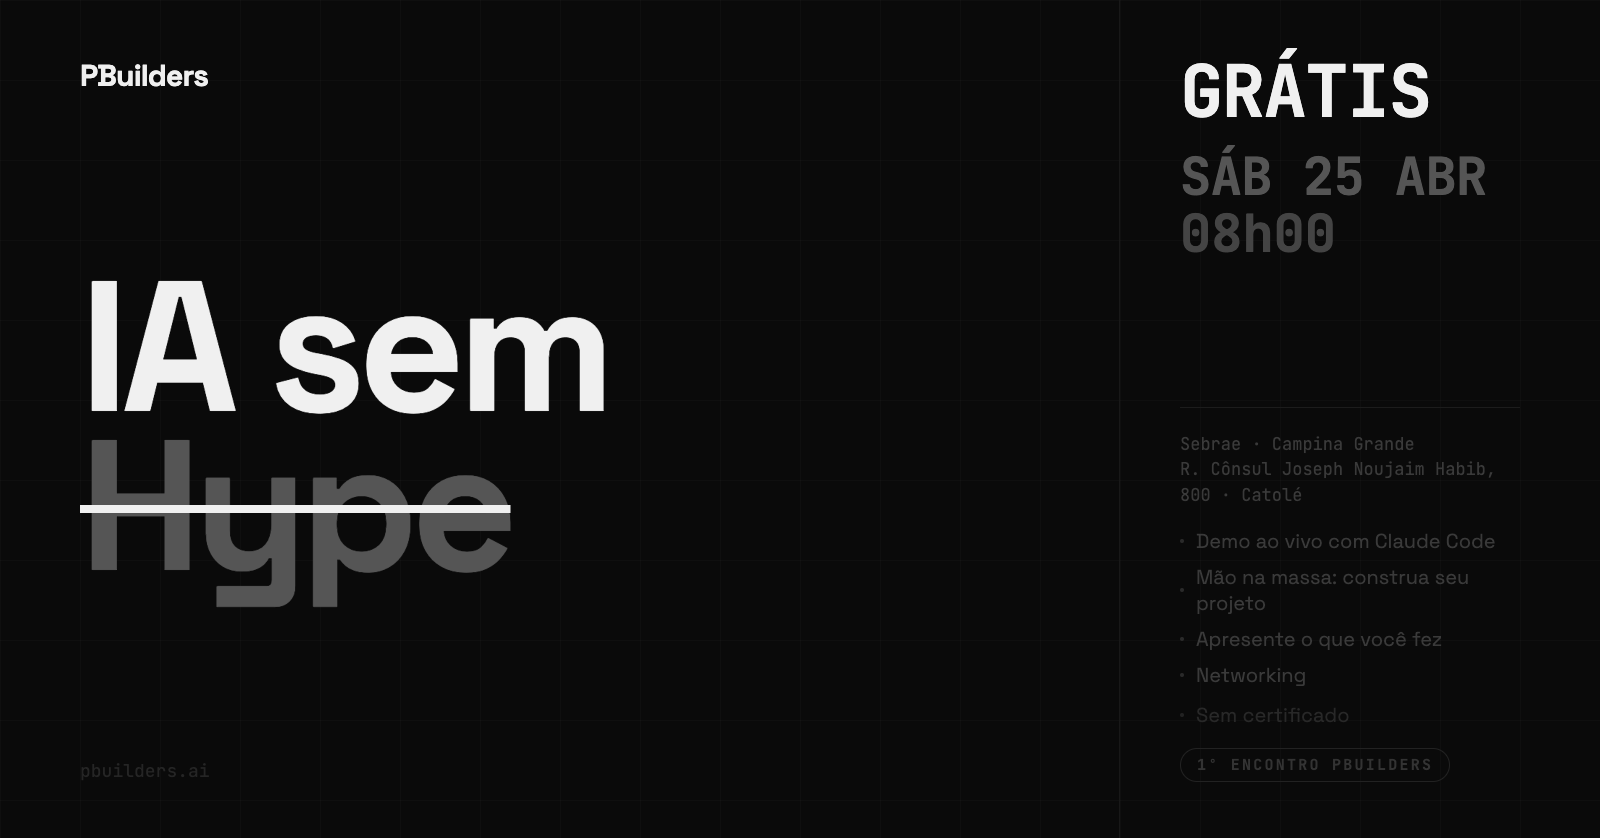
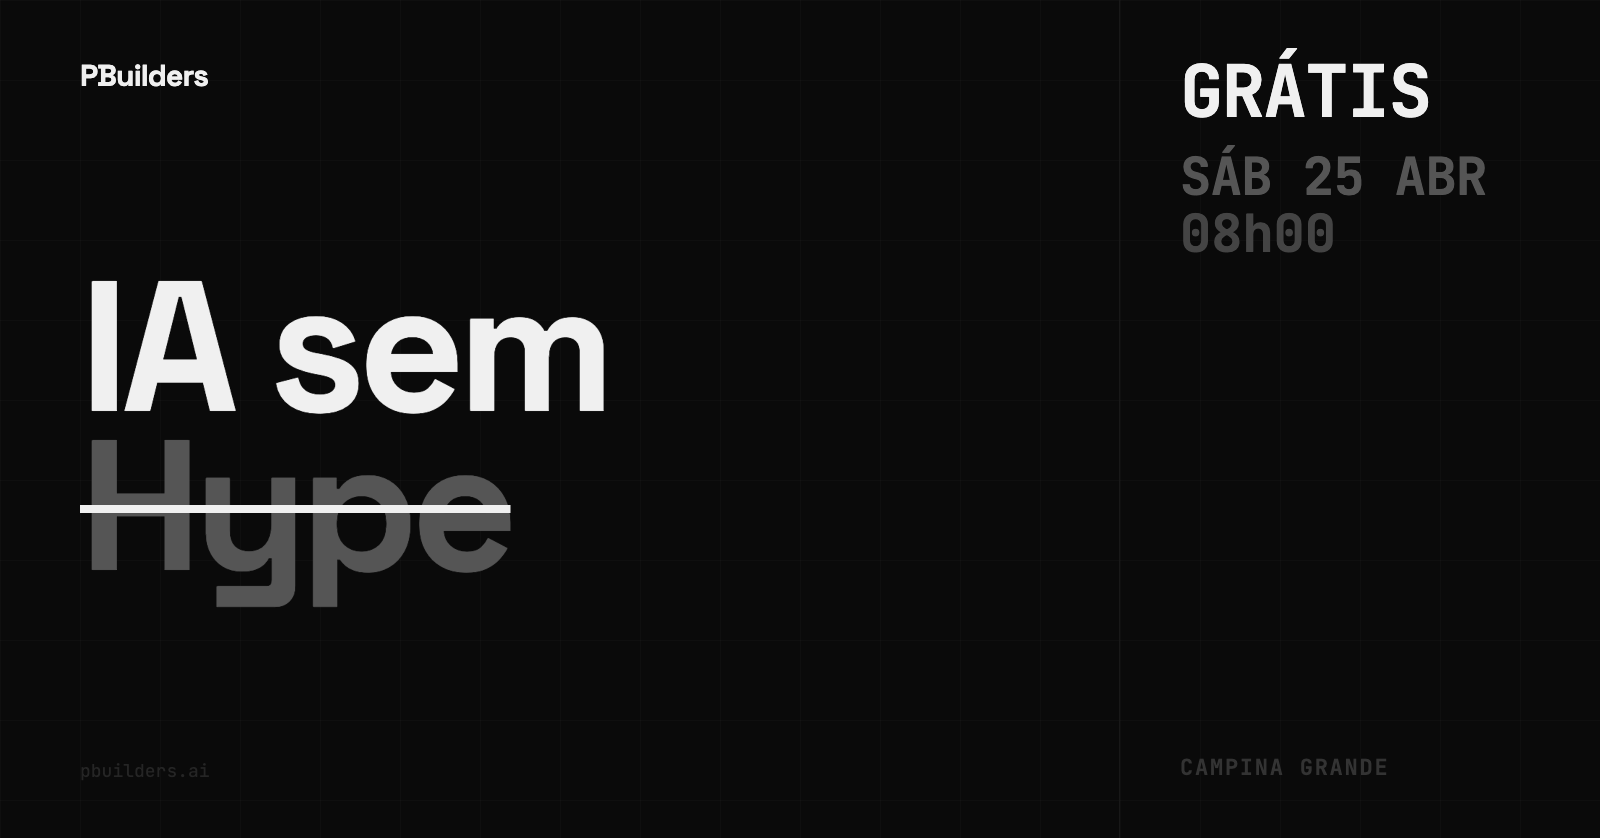
capa-sympla: simplificar — só o essencial para converter (título, grátis, data, hora)

diff --git a/eventos/ia-sem-hype/midia/capa-sympla.html b/eventos/ia-sem-hype/midia/capa-sympla.html
@@ -125,53 +125,13 @@
       line-height: 1.1;
     }
 
-    /* Nível 2 — visível em tamanho cheio */
-    .info-secondary {
-      display: flex;
-      flex-direction: column;
-      gap: 0;
-      border-top: 1px solid #1C1C1C;
-      padding-top: 24px;
-    }
-
-    .venue {
+    .location {
       font-family: 'JetBrains Mono', monospace;
-      font-size: 17px;
-      color: #3A3A3A;
-      margin-bottom: 20px;
-      line-height: 1.5;
-    }
-
-    .topics { display: flex; flex-direction: column; gap: 10px; }
-
-    .topic {
-      display: flex;
-      align-items: center;
-      gap: 12px;
-      font-size: 20px;
-      font-weight: 400;
-      color: #3A3A3A;
-    }
-
-    .topic-dot {
-      width: 4px; height: 4px;
-      border-radius: 50%;
-      background: #2A2A2A;
-      flex-shrink: 0;
-    }
-
-    .tag-encontro {
-      font-family: 'JetBrains Mono', monospace;
-      font-size: 15px;
+      font-size: 22px;
       font-weight: 700;
       text-transform: uppercase;
-      letter-spacing: 0.15em;
+      letter-spacing: 0.08em;
       color: #333;
-      border: 1px solid #222;
-      padding: 6px 16px;
-      border-radius: 999px;
-      align-self: flex-start;
-      margin-top: 20px;
     }
   </style>
 </head>
@@ -191,17 +151,7 @@
         <div class="date-big">Sáb 25 Abr</div>
         <div class="time-big">08h00</div>
       </div>
-      <div class="info-secondary">
-        <div class="venue">Sebrae · Campina Grande<br>R. Cônsul Joseph Noujaim Habib, 800 · Catolé</div>
-        <div class="topics">
-          <div class="topic"><span class="topic-dot"></span>Demo ao vivo com Claude Code</div>
-          <div class="topic"><span class="topic-dot"></span>Mão na massa: construa seu projeto</div>
-          <div class="topic"><span class="topic-dot"></span>Apresente o que você fez</div>
-          <div class="topic"><span class="topic-dot"></span>Networking</div>
-          <div class="topic" style="color:#282828;margin-top:4px;"><span class="topic-dot" style="background:#222;"></span>Sem certificado</div>
-        </div>
-        <div class="tag-encontro">1º Encontro PBuilders</div>
-      </div>
+      <div class="location">Campina Grande</div>
     </div>
 
   </div>
